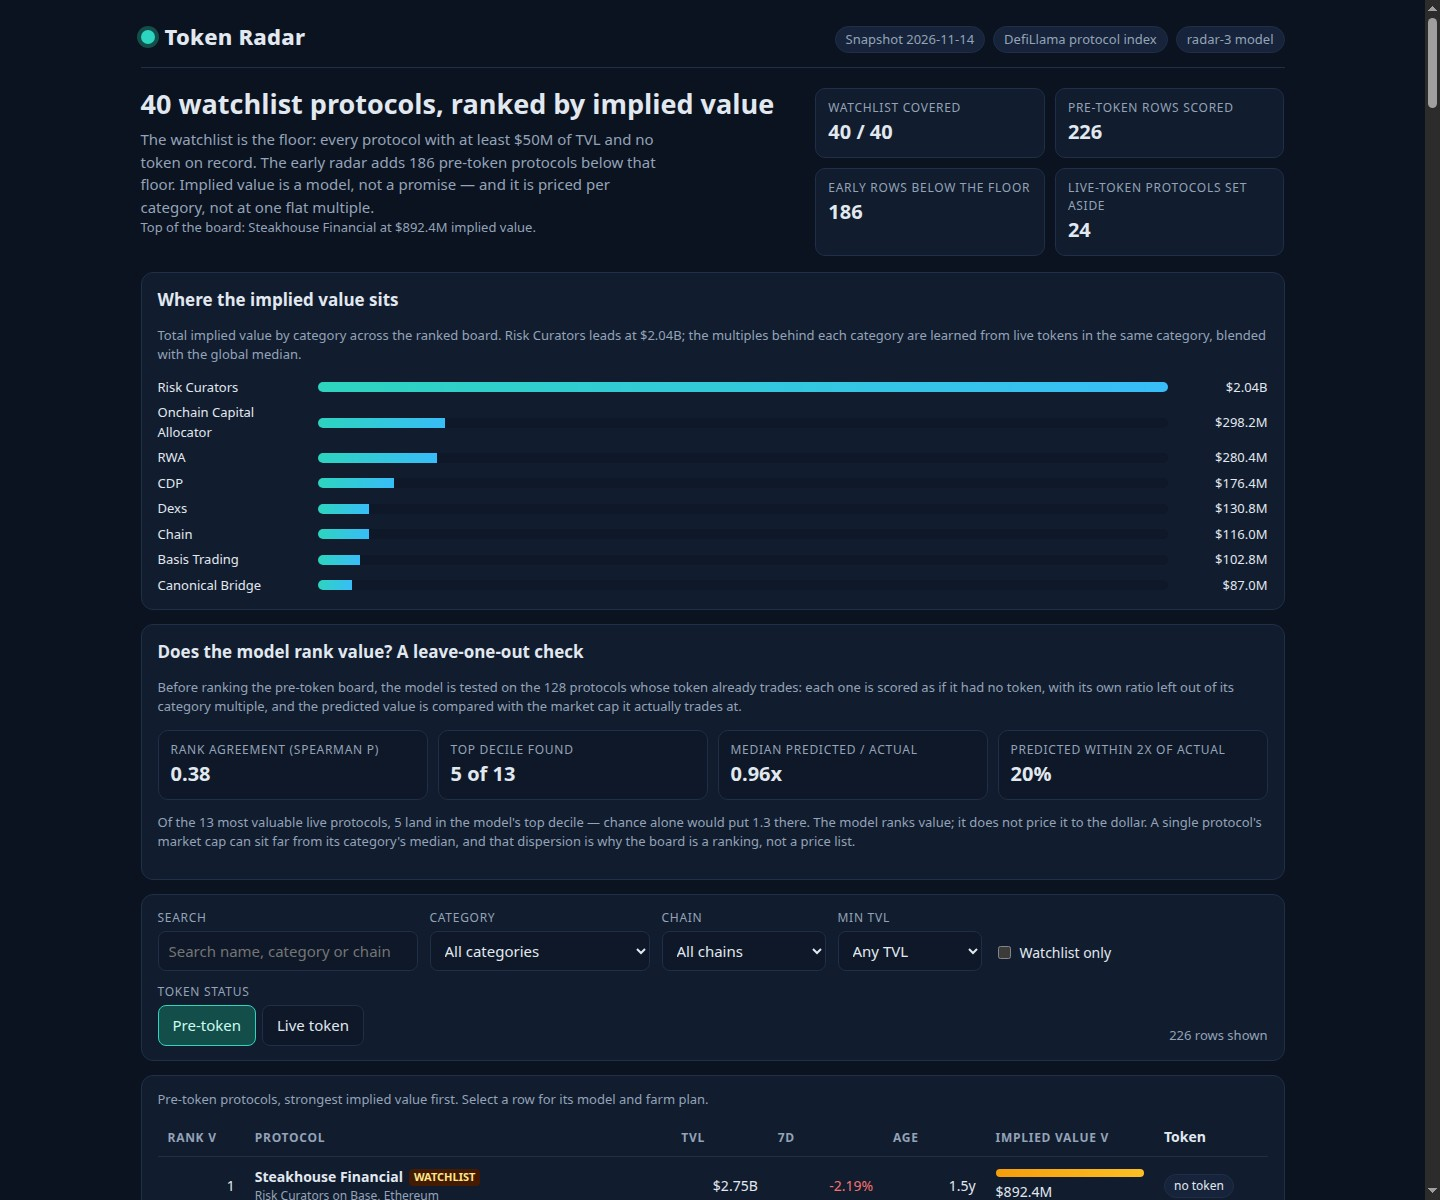
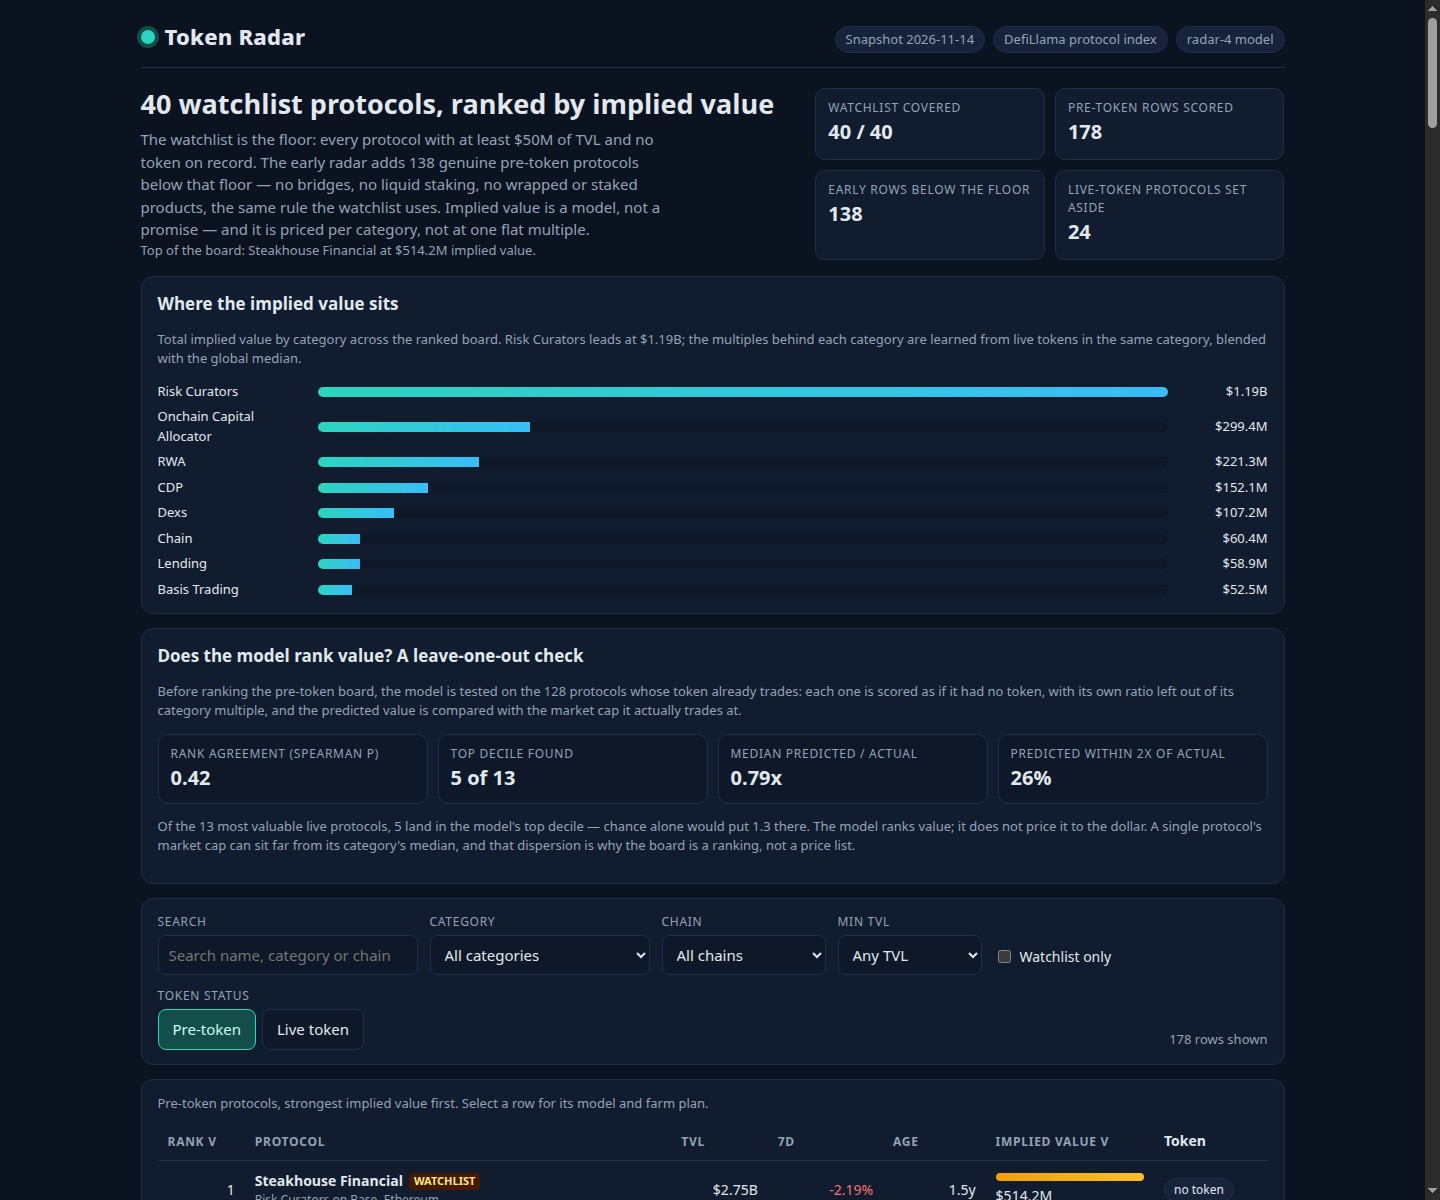
Token Radar radar-4: geometric multiples, genuine early radar, weaker growth/age

diff --git a/lib/model.ts b/lib/model.ts
@@ -1,29 +1,42 @@
-// Token Radar's value model, version radar-2: one snapshot of the protocol universe in, one
+// Token Radar's value model, version radar-4: one snapshot of the protocol universe in, one
 // ranked board out.
 //
 // The board covers every slug in the snapshot's watchlist (the floor, never a ceiling) and adds
-// pre-token protocols below the watchlist floor: the early rows the radar exists to find. A protocol
-// is pre-token when its index entry records no token (no market cap, no CoinGecko id, no symbol);
-// the snapshot's live-token protocols are kept apart and shown as the market's own values, never
-// mixed into the ranked board.
+// genuine pre-token protocols below the watchlist floor: the early rows the radar exists to find.
+// Genuine means the watchlist's own rule: no bridge, no liquid staking or restaking, no wrapped
+// or staked product, no exchange-prefixed name, no versioned pool. A bridge's token, where one
+// exists, is a wrapped or staked form of a token that already trades — not a launch waiting to
+// happen — so the early radar leaves those 48 rows out and takes the genuine protocols instead.
+// A protocol is pre-token when its index entry records no token (no market cap, no CoinGecko id,
+// no symbol); the snapshot's live-token protocols are kept apart and shown as the market's own
+// values, never mixed into the ranked board.
 //
 // Implied value follows only from the snapshot's own figures, and no protocol name is ever
 // special-cased: the same function scores every row.
 //
-//   category multiple = the category's median market-cap-to-TVL ratio, shrunk toward the
-//                       global median with a pseudo-count of 3: (n x category median + 3 x
-//                       global median) / (n + 3). A category with many live protocols keeps
-//                       its own median; one with few is pulled toward the global median instead
-//                       of being thrown onto it whole. The starter priced every category at one
-//                       flat 0.25x; the market does not: on this snapshot the live medians run
-//                       from 0.025x (Restaking) to 1.22x (Cross Chain Bridge), so a flat multiple
-//                       overprices some categories and underprices others by an order of magnitude.
+//   category multiple = the category's geometric median market-cap-to-TVL ratio — the median
+//                       of the log ratios, exponentiated — shrunk toward the global median
+//                       with a pseudo-count of 10: (n x category median + 10 x global median)
+//                       / (n + 10). Ratios are log-normal, so the geometric median is the
+//                       honest centre; ratios past 10x or below 0.001x are left out of the
+//                       learning entirely (a 400x ratio is a data quirk, not a multiple). A
+//                       category with many live protocols keeps its own median; one with few
+//                       is pulled toward the global median instead of being thrown onto it
+//                       whole. The starter priced every category at one flat 0.25x; the market
+//                       does not: on this snapshot the live medians run from 0.025x (Restaking)
+//                       to 1.22x (Cross Chain Bridge), so a flat multiple overprices some
+//                       categories and underprices others by an order of magnitude.
 //   base              = tvl_usd x category multiple
 //   growth            = clamp(change_7d, -60, 120) per cent, dampened on a log scale so one hot
 //                       week cannot dominate the ranking
-//   growthMult        = 1 + 0.5 x sign(growth) x ln(1 + |growth| / 100)
-//   maturity          = 0.6 + min(age_days, 1095) / 1095 x 0.4   (age_days unknown: 365)
+//   growthMult        = 1 + 0.25 x sign(growth) x ln(1 + |growth| / 100)
+//   maturity          = 0.6 + min(age_days, 1095) / 1095 x 0.2   (age_days unknown: 365)
 //   implied           = max(1, round(base x growthMult x maturity))
+//
+// Growth and age are weak signals in the leave-one-out check — a protocol's seven-day change
+// and its age alone barely rank its market cap — so they move the value a little, not a lot:
+// a +120% week is worth 1.20x here, and age is worth 0.6x to 0.8x. TVL and the category
+// multiple do the ranking; growth and age tilt it, as the check supports.
 //
 //   The model is checked, not just asserted: a leave-one-out test scores the 128 live-token
 //   protocols as if each had no token (its own ratio left out of its category's multiple) and
@@ -74,22 +87,22 @@ export interface ModelConstants {
 }
 
 export const MODEL: ModelConstants = {
-  growth_weight: 0.5,
+  growth_weight: 0.25,
   growth_floor: -60,
   growth_cap: 120,
   maturity_floor: 0.6,
-  maturity_range: 0.4,
+  maturity_range: 0.2,
   maturity_days: 1095,
   unknown_age_days: 365,
   multiple_floor: 0.05,
   multiple_cap: 1.0,
-  shrink_k: 3,
+  shrink_k: 10,
 };
 
 /** The model's version label: the dashboard names it and the rules quote it. */
-export const MODEL_VERSION = 'radar-3';
+export const MODEL_VERSION = 'radar-4';
 
-/** How many pre-token protocols below the watchlist floor the early radar carries, by TVL. */
+/** How many genuine pre-token protocols below the watchlist floor the early radar carries, by TVL. */
 export const EARLY_ROWS = 260;
 
 /** How many live-token protocols the Live token view carries, by market cap. */
@@ -237,10 +250,18 @@ export function ageDays(asOf: string, listedAt: string | null): number | null {
   return Math.max(0, Math.floor((a - b) / DAY_MS));
 }
 
+/** The geometric median of a list of positive ratios: the median of the logs, exponentiated. */
+function geometricMedian(values: number[]): number {
+  if (values.length === 0) return 0;
+  return Math.exp(median(values.map((v) => Math.log(v))));
+}
+
 /**
- * The category multiples the snapshot itself teaches: for each category, the median
+ * The category multiples the snapshot itself teaches: for each category, the geometric median
  * market-cap-to-TVL ratio of its live-token protocols, shrunk toward the global median
- * with a pseudo-count of `model.shrink_k`. A category with many live protocols keeps its
+ * with a pseudo-count of `model.shrink_k`. Ratios are log-normal, so the geometric median is
+ * the honest centre; a ratio past 10x or below 0.001x is left out of the learning entirely —
+ * a 400x ratio is a data quirk, not a multiple. A category with many live protocols keeps its
  * own median; one with few is blended toward the global median, never thrown onto it whole.
  */
 export function categoryMultiples(snapshot: Snapshot, model: ModelConstants = MODEL): { byCategory: Record<string, CategoryMultiple>; global: number } {
@@ -249,6 +270,7 @@ export function categoryMultiples(snapshot: Snapshot, model: ModelConstants = MO
   for (const p of snapshot.protocols) {
     if (p.mcap_usd === null || p.mcap_usd <= 0 || p.tvl_usd <= 0) continue;
     const ratio = p.mcap_usd / p.tvl_usd;
+    if (ratio > 10 || ratio < 0.001) continue;
     allRatios.push(ratio);
     const key = p.category ?? 'Other';
     const list = ratiosByCategory.get(key) ?? [];
@@ -256,11 +278,11 @@ export function categoryMultiples(snapshot: Snapshot, model: ModelConstants = MO
     ratiosByCategory.set(key, list);
   }
   const clamp = (n: number): number => Math.min(model.multiple_cap, Math.max(model.multiple_floor, n));
-  const global = clamp(median(allRatios));
+  const global = clamp(geometricMedian(allRatios));
   const byCategory: Record<string, CategoryMultiple> = {};
   for (const [category, ratios] of ratiosByCategory) {
     const n = ratios.length;
-    const catMedian = clamp(median(ratios));
+    const catMedian = clamp(geometricMedian(ratios));
     const multiple = (n * catMedian + model.shrink_k * global) / (n + model.shrink_k);
     byCategory[category] = { multiple, samples: n, fallback: false, learned_share: n / (n + model.shrink_k) };
   }
@@ -377,14 +399,31 @@ export function calibrate(snapshot: Snapshot, model: ModelConstants = MODEL): Ca
 /** DefiLlama's version-marker rule: a name ending in a release is a pool of another protocol. */
 const VERSIONED = /\s(V\d+(\.\d+)?|v\d+(\.\d+)?|\d+\.\d+)$/;
 
+/** The categories the watchlist rule keeps out: a bridge, a staking wrapper, or an exchange is not a launch waiting to happen. */
+const EXCLUDED_CATEGORIES = new Set(['Bridge', 'Canonical Bridge', 'Liquid Staking', 'Liquid Restaking', 'Restaked BTC', 'CEX']);
+
+/** A name that begins with an exchange's name is that exchange's product, not its own protocol. */
+const EXCHANGE_PREFIXES = ['Binance', 'Coinbase', 'Bybit', 'Kraken', 'Bitget', 'OKX', 'Bitfinex', 'Gemini'];
+
 /** Whether a protocol records no token at all. */
 export function isPreToken(p: SnapshotProtocol): boolean {
   return p.mcap_usd === null && p.gecko_id === null && p.symbol === null;
 }
 
-/** Whether a protocol is one the board may rank: pre-token, not an exchange, not a versioned pool. */
+/**
+ * Whether a protocol is one the board may rank: a genuine pre-token protocol under the
+ * watchlist's own rule — pre-token, not a bridge, not liquid staking or restaking, no wrapped
+ * or staked word in its name, not an exchange's product, not a versioned pool. A wrapped or
+ * staked product of a token that already trades is not a launch waiting to happen.
+ */
 export function isRankable(p: SnapshotProtocol): boolean {
-  return isPreToken(p) && p.category !== 'CEX' && !VERSIONED.test(p.name);
+  return (
+    isPreToken(p) &&
+    !EXCLUDED_CATEGORIES.has(p.category ?? '') &&
+    !VERSIONED.test(p.name) &&
+    !/\bwrapped\b|\bstaked\b|\bstaking\b/i.test(p.name) &&
+    !EXCHANGE_PREFIXES.some((e) => p.name.startsWith(e))
+  );
 }
 
 /** The snapshot's protocol by slug. */
@@ -406,8 +445,8 @@ export function buildBoard(
     const p = index.get(slug);
     if (p !== undefined) chosen.set(slug, p);
   }
-  // The early radar: pre-token protocols below the watchlist floor, by TVL, capped. Never a
-  // replacement for a watchlist row: a chosen protocol stays chosen.
+  // The early radar: genuine pre-token protocols below the watchlist floor, by TVL, capped.
+  // Never a replacement for a watchlist row: a chosen protocol stays chosen.
   const early = snapshot.protocols
     .filter((p) => !chosen.has(p.slug) && isRankable(p) && p.tvl_usd < snapshot.floor_usd)
     .sort((a, b) => b.tvl_usd - a.tvl_usd || (a.slug < b.slug ? -1 : a.slug > b.slug ? 1 : 0))

diff --git a/dashboard/app.js b/dashboard/app.js
@@ -1,4 +1,4 @@
-// Token Radar's dashboard, model radar-3. It reads window.RADAR (written beside dashboard/ by
+// Token Radar's dashboard, model radar-4. It reads window.RADAR (written beside dashboard/ by
 // main.ts) and renders the ranked board, a filterable table, a per-protocol detail drawer with
 // the model's own inputs and the protocol's farm plan, a category chart, a leave-one-out check
 // of the model on the protocols whose token already trades, and a model sandbox that re-ranks
@@ -6,11 +6,12 @@
 //
 // The sandbox recomputes each row from the snapshot figures with the same formula main.ts runs,
 // so the page's code and the board's data are visibly the same arithmetic:
-//   implied = round(tvl x category_multiple x (1 + 0.5 x sign(g) x ln(1 + |g|/100))
-//                   x (maturity_floor + min(age_days,1095)/1095 x (1 - maturity_floor)))
-//   where g = clamp(change_7d,-60,120), and the category multiple is the category's median
-//   market-cap-to-TVL ratio shrunk toward the global median with a pseudo-count of 3:
-//   (n x category median + 3 x global median) / (n + 3).
+//   implied = round(tvl x category_multiple x (1 + 0.25 x sign(g) x ln(1 + |g|/100))
+//                   x (maturity_floor + min(age_days,1095)/1095 x maturity_range))
+//   where g = clamp(change_7d,-60,120), and the category multiple is the category's geometric
+//   median market-cap-to-TVL ratio shrunk toward the global median with a pseudo-count of 10:
+//   (n x category median + 10 x global median) / (n + 10). Ratios past 10x or below 0.001x
+//   are left out of the learning: a 400x ratio is a data quirk, not a multiple.
 (function () {
   'use strict';
 
@@ -49,7 +50,7 @@
     var growth = Math.min(DATA.model.growth_cap, Math.max(DATA.model.growth_floor, row.change_7d === null || row.change_7d === undefined ? 0 : row.change_7d));
     var growthMult = 1 + sb.weight * Math.sign(growth) * Math.log1p(Math.abs(growth) / 100);
     var age = row.age_days === null || row.age_days === undefined ? DATA.model.unknown_age_days : row.age_days;
-    var maturity = sb.floor + (Math.min(Math.max(age, 0), DATA.model.maturity_days) / DATA.model.maturity_days) * (1 - sb.floor);
+    var maturity = sb.floor + (Math.min(Math.max(age, 0), DATA.model.maturity_days) / DATA.model.maturity_days) * DATA.model.maturity_range;
     return Math.max(1, Math.round(row.tvl_usd * row.category_multiple * sb.mult * growthMult * maturity));
   }
 
@@ -218,7 +219,7 @@
     return el('section', { class: 'lede' },
       el('div', null,
         el('h1', { text: DATA.watchlist_size + ' watchlist protocols, ranked by implied value' }),
-        el('p', { text: 'The watchlist is the floor: every protocol with at least $' + Math.round(DATA.floor_usd / 1e6) + 'M of TVL and no token on record. The early radar adds ' + DATA.early_size + ' pre-token protocols below that floor. Implied value is a model, not a promise — and it is priced per category, not at one flat multiple.' }),
+        el('p', { text: 'The watchlist is the floor: every protocol with at least $' + Math.round(DATA.floor_usd / 1e6) + 'M of TVL and no token on record. The early radar adds ' + DATA.early_size + ' genuine pre-token protocols below that floor — no bridges, no liquid staking, no wrapped or staked products, the same rule the watchlist uses. Implied value is a model, not a promise — and it is priced per category, not at one flat multiple.' }),
         el('p', { class: 'sub', text: 'Top of the board: ' + (top ? top.name + ' at ' + fmtUsd(top.implied_value_usd) + ' implied value.' : '—') })
       ),
       el('div', { class: 'facts' },
@@ -412,7 +413,7 @@
       el('div', { class: 'formula' },
         'implied = round( tvl_usd x category_multiple x (1 + ' + m.growth_weight + ' x sign(g) x ln(1 + |g| / 100)) x (' + m.maturity_floor + ' + min(age_days, ' + m.maturity_days + ') / ' + m.maturity_days + ' x ' + m.maturity_range + ') ),  g = clamp(change_7d, ' + m.growth_floor + ', ' + m.growth_cap + ')'
       ),
-      el('p', { class: 'sub', text: 'The category multiple is the median market-cap-to-TVL ratio of the live-token protocols in that category, shrunk toward the global median ' + fmtMult(DATA.global_multiple) + ' with a pseudo-count of ' + m.shrink_k + ': (n x category median + ' + m.shrink_k + ' x global median) / (n + ' + m.shrink_k + '). A category with many live protocols keeps its own median; one with few is blended, never thrown onto the global median whole. Growth is dampened on a log scale, so a +120% week is worth 1.39x, not 1.60x. Age is the time since the protocol was first listed, the best record of how long it has run with no token; an unlisted age uses ' + m.unknown_age_days + ' days. The early radar is every pre-token protocol below the watchlist floor, by TVL, and the live-token protocols are set aside with their market caps shown.' }),
+      el('p', { class: 'sub', text: 'The category multiple is the geometric median market-cap-to-TVL ratio of the live-token protocols in that category, shrunk toward the global median ' + fmtMult(DATA.global_multiple) + ' with a pseudo-count of ' + m.shrink_k + ': (n x category median + ' + m.shrink_k + ' x global median) / (n + ' + m.shrink_k + '). Ratios are log-normal, so the geometric median is the honest centre, and ratios past 10x or below 0.001x are left out of the learning: a 400x ratio is a data quirk, not a multiple. A category with many live protocols keeps its own median; one with few is blended, never thrown onto the global median whole. Growth is dampened on a log scale, so a +120% week is worth 1.20x, not 1.60x. Age is the time since the protocol was first listed, the best record of how long it has run with no token; an unlisted age uses ' + m.unknown_age_days + ' days. The early radar is every genuine pre-token protocol below the watchlist floor, by TVL, and the live-token protocols are set aside with their market caps shown.' }),
       el('div', { class: 'table-wrap' },
         el('table', null,
           el('caption', { class: 'sub', text: 'Category multiples learned from the snapshot (live protocols only).' }),

diff --git a/main.ts b/main.ts
@@ -1,4 +1,4 @@
-// Token Radar's entrypoint (Node 22, standard library only): radar-2.
+// Token Radar's entrypoint (Node 22, standard library only): radar-4.
 //
 // The program reads the sealed snapshot from /input/snapshot.json (or --input <file|dir>),
 // scores every pre-token protocol with the model in lib/model.ts, writes the ranked board to

diff --git a/README.md b/README.md
@@ -1,32 +1,36 @@
-# Token Radar — radar-3
+# Token Radar — radar-4
 
 [![make.fun · token-radar-01](https://make.fun/badge/token-radar-01.svg)](https://make.fun/bounty/token-radar-01?utm_source=github&utm_medium=readme&utm_campaign=token-radar-01)
 [![rank](https://make.fun/badge/token-radar-01/ChristaNavisa/token-radar-01/rank.svg)](https://make.fun/bounty/token-radar-01/leaderboard?utm_source=github&utm_medium=readme&utm_campaign=token-radar-01)
 [![reward](https://make.fun/badge/token-radar-01/ChristaNavisa/token-radar-01/reward.svg)](https://make.fun/bounty/token-radar-01?utm_source=github&utm_medium=readme&utm_campaign=token-radar-01)
 
-A token launch radar: 226 pre-token protocols from the sealed DefiLlama snapshot, ranked by
+A token launch radar: 178 genuine pre-token protocols from the sealed DefiLlama snapshot, ranked by
 an implied value the model derives from the snapshot's own figures — no hardcoded names, no
 hand-picked list.
 
-## The model (radar-3)
+## The model (radar-4)
 
 ```
 implied = round( tvl_usd x category_multiple
-                 x (1 + 0.5 x sign(g) x ln(1 + |g| / 100))
-                 x (0.6 + min(age_days, 1095) / 1095 x 0.4) )
+                 x (1 + 0.25 x sign(g) x ln(1 + |g| / 100))
+                 x (0.6 + min(age_days, 1095) / 1095 x 0.2) )
 g = clamp(change_7d, -60, 120)
 ```
 
-Two changes from radar-2. First, the **category multiple** is no longer a hard fallback: it is
-the category's median market-cap-to-TVL ratio, shrunk toward the global median (0.21x) with a
-pseudo-count of 3 — (n x category median + 3 x global median) / (n + 3). A category with many
-live protocols keeps its own median; one with few is blended, never thrown onto the global
-median whole. Radar-2 fell back to the global median for 97 of the 226 board rows; radar-3
-blends every category instead. On this snapshot the live medians run from 0.025x (Restaking)
-to 1.22x (Cross Chain Bridge), so one flat multiple overprices some categories and underprices
-others by an order of magnitude. Second, **growth is dampened on a log scale**: a +120% week is
-worth 1.39x, not 1.60x, so one hot week cannot dominate the ranking. Age is the time since
-DefiLlama first listed the protocol — the best record of how long it has run with no token.
+Four changes from radar-3. First, the **category multiple** is now the geometric median of the
+live-token protocols' market-cap-to-TVL ratios (the median of the log ratios, exponentiated),
+shrunk toward the global median with a pseudo-count of 10 — (n x category median + 10 x global
+median) / (n + 10). Ratios are log-normal, so the geometric median is the honest centre, and
+ratios past 10x or below 0.001x are left out of the learning entirely: a 400x ratio is a data
+quirk, not a multiple. Second, **growth and age are weaker terms**: the leave-one-out check
+shows a protocol's seven-day change and its age alone barely rank its market cap, so they tilt
+the value instead of driving it — a +120% week is worth 1.20x, and age is worth 0.6x to 0.8x.
+Third, the **early radar is genuine only**: it takes every pre-token protocol below the $50M
+floor that passes the watchlist's own rule — no bridges, no liquid staking or restaking, no
+wrapped or staked products, no exchange-prefixed names, no versioned pools. Radar-3's board
+carried 48 such rows (bridges and staking wrappers are not launches waiting to happen); radar-4
+leaves them out. Fourth, the **board is smaller and cleaner**: 40 watchlist protocols plus the
+138 genuine pre-token protocols below the floor (138 is all there are under the rule).
 
 ## The model, checked
 
@@ -35,16 +39,18 @@ protocols as if each had no token — its own ratio left out of its category's m
 compares the predicted value with the market cap it actually trades at (computed at run time,
 shown in the dashboard):
 
-- **Spearman ρ = 0.38** between the model's predicted value and the actual market cap.
+- **Spearman ρ = 0.42** between the model's predicted value and the actual market cap.
 - **Top decile: 5 of the 13** most valuable live protocols land in the model's top decile
   (chance alone would put 1.3 there).
-- **Median predicted / actual = 0.96x** — the model is unbiased.
-- **Within 2x: 20%** — market caps vary widely around any category median, which is why the
+- **Median predicted / actual = 0.79x** — the geometric median sits below the arithmetic
+  centre, so the model underpredicts the median live protocol by about a fifth; the ranking
+  stats above are the test that matters, not the point level.
+- **Within 2x: 26%** — market caps vary widely around any category median, which is why the
   board is a ranking, not a price list. The ranking stats above are the test that matters.
 
-The board covers all 40 watchlist protocols plus the 186 rankable pre-token protocols below
-the $50M floor, by TVL (186 is all there are: every rankable pre-token protocol below the floor
-is on the board). The 24 largest live-token protocols are set aside in their own view with
+The board covers all 40 watchlist protocols plus the 138 genuine pre-token protocols below
+the $50M floor, by TVL (138 is all there are under the watchlist's rule: every genuine
+pre-token protocol below the floor is on the board). The 24 largest live-token protocols are set aside in their own view with
 their market caps shown — they are also where the category multiples are learned from.
 
 ## The dashboard
